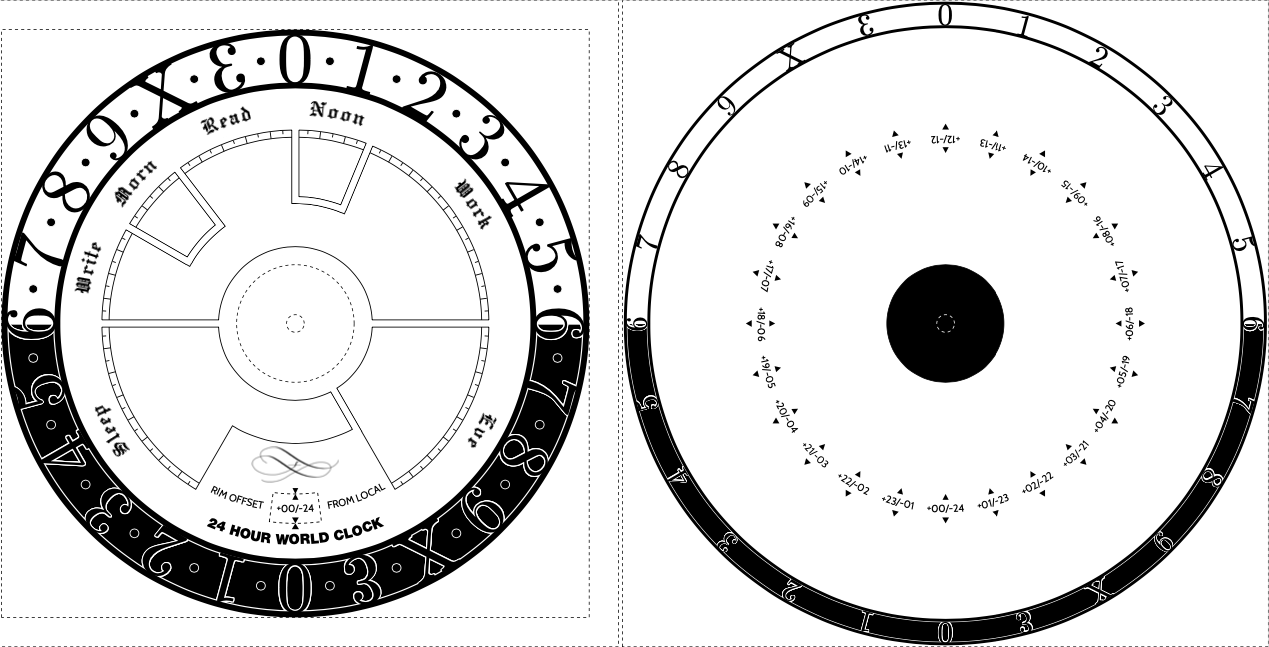
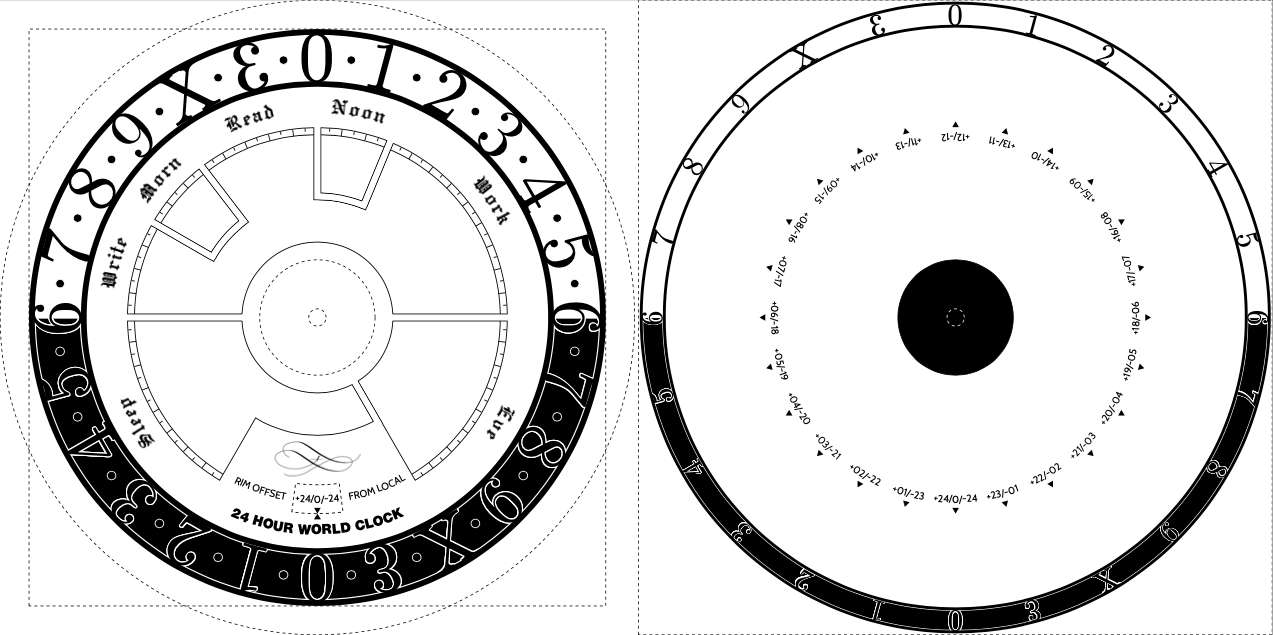
touches, one arrow, fix offsets direction

diff --git a/clock.tex b/clock.tex
@@ -9,7 +9,7 @@
 }
 \usepackage{graphicx}
 \usepackage{contour}
-\contourlength{0.05mm}
+\contourlength{0.05mm} % important and fragile magic number!
 
 % FONTS
 \usepackage{addfont}
@@ -23,7 +23,7 @@
 \noindent\begin{tikzpicture}
     % BORDER
     \draw[dashed] (-100mm,-100mm) rectangle (100mm,100mm);
-    \draw[dashed] (-110mm,-110mm) rectangle (110mm,110mm);
+    \draw[dashed] (0,0) circle (110mm);
     \draw[dashed] (0,0) circle [radius=3mm];
     \draw[dashed] (0,0) circle [radius=20mm];
     
@@ -99,13 +99,13 @@
     }
 
     % PANEL
-    \node at (270:48mm) {\includegraphics[width=30mm]{sign.png}};
-    % move this down?
+    % signature
+    \node at (270:49mm) {\includegraphics[width=30mm]{sign.png}};
+    % title
     \path[postaction={decorate,decoration={text align={center},%
         text along path,text={|\Large\textblack|24 HOUR WORLD CLOCK}}}]
         (240:75mm) arc (240:300:75mm);
-    \fill (270:68mm) -- (271:70mm) -- (269:70mm);
-    \fill (270:58mm) -- (271:56mm) -- (269:56mm);
+    % offset information and blank
     \draw[dashed,line width=0.3mm]
         (262.5:68mm) -- (262.5:58mm) arc(262.5:277.5:58mm) --
         (277.5:58mm) -- (277.5:68mm) arc(277.5:262.5:68mm) ;
@@ -115,12 +115,13 @@
     \path[postaction={decorate,decoration={text align={left},text along
         path,text={|\sffamily|FROM LOCAL}}}]
         (280:64mm) arc (280:300:64mm);
+    \fill (270:68mm) -- (271:70mm) -- (269:70mm);
+
     % THE EXAMPLE
     \path[postaction={decorate,decoration={text align={center},text along
-        path,text={|\sffamily|+00/-24}}}]
+        path,text={|\sffamily|+24/0/-24}}}]
         (262.5:64mm) arc (262.5:277.5:64mm);
     \fill (270:68mm) -- (271:66mm) -- (269:66mm);
-    \fill (270:58mm) -- (271:60mm) -- (269:60mm);
 \end{tikzpicture}
     
 \begin{tikzpicture}
@@ -132,17 +133,20 @@
     % INNER TIMEZONE ALIGNMENT
     % Timezones
     \foreach [count=\i] \plus/\minus in {%
-            00/24,01/23,02/22,03/21,04/20,05/19,
-            06/18,07/17,08/16,09/15,10/14,11/13,
-            12/12,13/11,14/10,15/09,16/08,17/07,
-            18/06,19/05,20/04,21/03,22/02,23/01%
+            01/23,02/22,03/21,04/20,05/19,06/18,%
+            07/17,08/16,09/15,10/14,11/13,12/12,%
+            13/11,14/10,15/09,16/08,17/07,18/06,%
+            19/05,20/04,21/03,22/02,23/01%
     } {
         \path[postaction={decorate,decoration={text align={center},text
             along path,text={|\sffamily|+\plus/-\minus}}}]
-            (247.5+15*\i:64mm) arc (247.5+15*\i:262.5+15*\i:64mm);
+            (262.5-15*\i:64mm) arc (262.5-15*\i:277.5-15*\i:64mm);
         \fill (270+15*\i:68mm) -- (271+15*\i:66mm) -- (269+15*\i:66mm);
-        \fill (270+15*\i:58mm) -- (271+15*\i:60mm) -- (269+15*\i:60mm);
     }
+    \path[postaction={decorate,decoration={text align={center},text
+        along path,text={|\sffamily|+24/0/-24}}}]
+        (262.5:64mm) arc (262.5:277.5:64mm);
+    \fill (270:68mm) -- (271:66mm) -- (269:66mm);
     
     % OUTER RIM
     % Background

diff --git a/README.md b/README.md
@@ -11,6 +11,7 @@ and a few other things.
 * A second dial shows a time in another time zone with a configurable offset,
   for immediate time reading across time zones.
 
+
 Project notes
 -------------
 
@@ -73,6 +74,22 @@ Fonts
 * Gothic font: https://tug.org/FontCatalogue/hersheyoldenglishfont/
 * Black sans-serif font: https://tug.org/FontCatalogue/qthelvetblack/
 * Regular sans-serif font: https://tug.org/FontCatalogue/cabin/
+
+
+Clock parts
+-----------
+
+Apart from the face, I ordered the clock parts from letsmaketime in
+Queensland.
+
+* [24hr clock movement](https://www.letsmaketime.com.au/shop/item/24-hour-clock-movement-3mm-6mm---qc-24/high-torque)
+* [Clock hands](https://www.letsmaketime.com.au/shop/item/retro-german-clock-hands-147mm)
+  (I'll use just the hour hand, I guess).
+
+Looking for bezels. Considering:
+
+* https://www.letsmaketime.com.au/shop/item/hinged-dial-glassbrass-bezel-ivory-arabic-215-copy
+* https://www.letsmaketime.com.au/shop/item/hinged-dial-with-brass-bezel-ivory-roman (a little big...!)
 
 License
 -------
